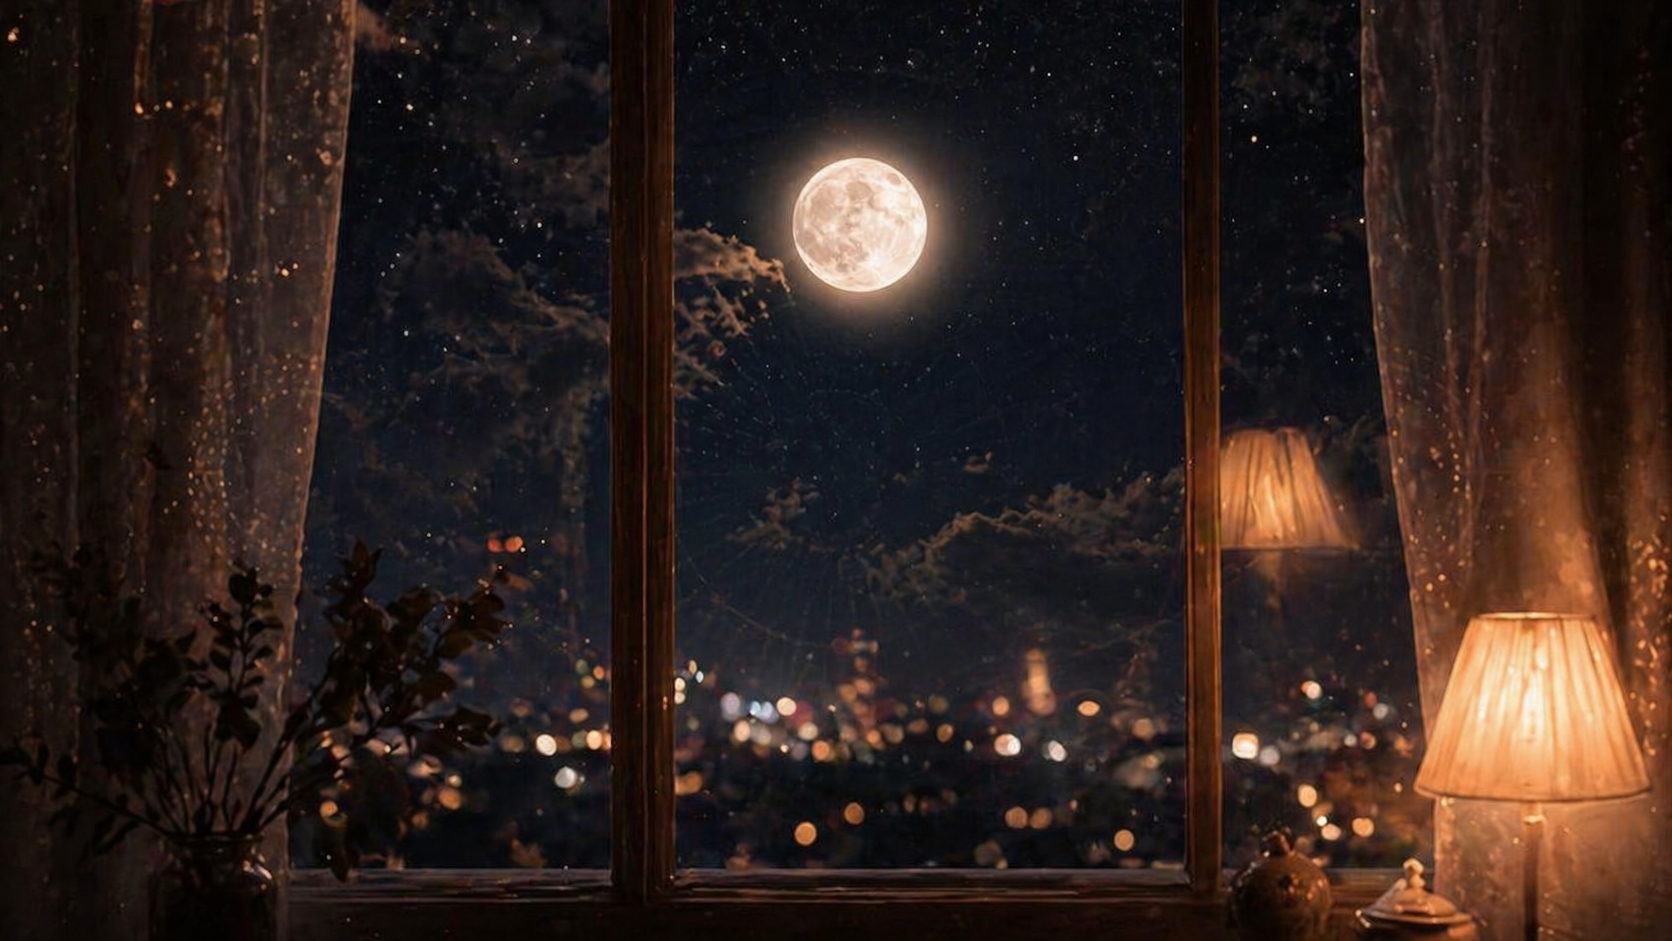
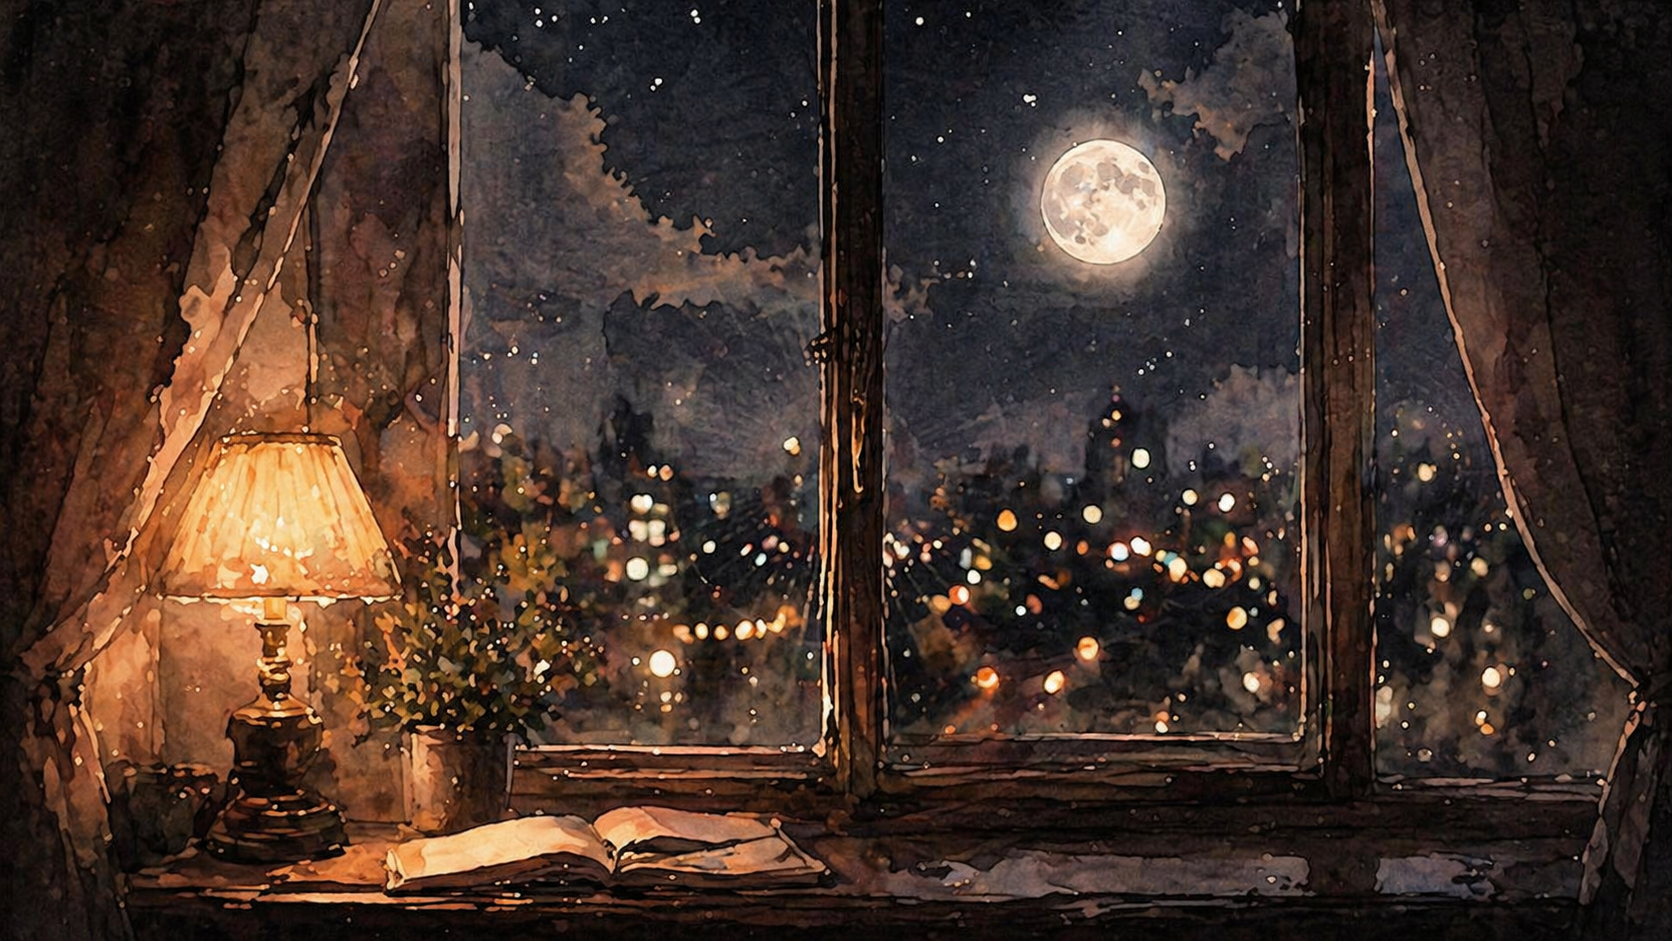
2nd post

diff --git a/posts/post-2.html b/posts/post-2.html
@@ -4,17 +4,14 @@
 <head>
     <meta charset="UTF-8" />
     <meta name="viewport" content="width=device-width, initial-scale=1.0" />
-    <title>Post Title — Moon Hours</title>
+    <title>I Think I Manifested My Biggest Fear — Moon Hours</title>
     <link rel="stylesheet" href="../style.css" />
 
-    <!-- Google tag (gtag.js) -->
-    <!-- Google tag (gtag.js) -->
     <script async src="https://www.googletagmanager.com/gtag/js?id=G-15LWD2YT5F"></script>
     <script>
         window.dataLayer = window.dataLayer || [];
         function gtag() { dataLayer.push(arguments); }
         gtag('js', new Date());
-
         gtag('config', 'G-15LWD2YT5F');
     </script>
 </head>
@@ -25,7 +22,6 @@
 
     <div class="wrap">
 
-        <!-- HEADER -->
         <header>
             <div class="blog-title">Moon Hours</div>
             <div class="blog-subtitle">words written after the world went quiet</div>
@@ -37,81 +33,112 @@
             </nav>
         </header>
 
-        <!-- POST LAYOUT -->
         <div class="post-layout">
 
-            <!-- MAIN COLUMN -->
             <div class="post-main">
 
-                <!-- optional hero image — delete if no image -->
-                <img class="post-hero" src="../assets/images/image4.jpeg" alt="post image" />
+                <img class="post-hero" src="../assets/images/image3.jpeg" alt="harmony" />
 
                 <div class="post-header">
-                    <div class="post-page-title">Things I Learned From Doing Nothing</div>
+                    <div class="post-page-title">I Think I Manifested My Biggest Fear</div>
                     <div class="post-meta">
-                        <span>march 18, 2026</span>
+                        <span>april 30, 2026</span>
                         <span class="dot"></span>
-                        <span>5 min read</span>
+                        <span>6 min read</span>
                         <span class="dot"></span>
-                        <span class="post-tag">introspection</span>
+                        <span class="post-tag">loneliness</span>
+                        <span class="dot"></span>
+                        <span class="post-tag">self</span>
                     </div>
                 </div>
 
                 <div class="post-divider"></div>
 
-                <!-- YOUR WRITING GOES HERE -->
                 <div class="post-content">
-                    <p> The title is "doin nothing"... but I am here doing all these things .. but why?
+
+                    <p>Did you know there is a theory about fear? Even though the classic Murphy's law sounds practical,
+                        people often reinterpret it as "the more you fear it, the more it happens." Sounds scary and
+                        funny at the same time, right?</p>
+
+                    <p>To me, it's more like manifesting the fear. I mean, that's how it works, isn't it? Your belief
+                        is what you manifest. Even in Islam, Allah is gonna be exactly who you believe him to be, give
+                        you what you believe he can grant. If you believe that there is something you want that you
+                        can't have, then you can't have it. He won't give you that, and vice versa.</p>
+
+                    <blockquote>It's scary sometimes how we are the ones who limit the blessings of our own
+                        lives.</blockquote>
+
+                    <p>Everyone has their own fear about <strong>life</strong>. And mine is "to be lonely". It came
+                        partly
+                        from life
+                        experiences and partly from how tired I am of feeling it. You know when loneliness becomes
+                        loud? When the room is full of people, yet not a single person actually cares, nor knows you
+                        well. All those people are there just because either they are family members or they get some
+                        kind of benefit from you.</p>
+
+                    <p>And the loneliness starts to scream when it knows no one is there for you because they
+                        <em>want</em> to be, choosing you regardless of who you are, not because of any benefit or
+                        condition.
                     </p>
 
-                    <p> Aren't the cat too cute? yeah right.. all i can think during my free time is cats -_-
+                    <p>My whole life has been a series of those events. I'm 24 now, and at this point, I know it's not
+                        that much of a life. (Any elder would say that 🤷♀️). But I already stopped expecting. There
+                        is a different kind of weight to <strong>hope</strong>. So loneliness is what became my
+                        constant.</p>
 
-                    </p>
+                    <p> The acceptance of that,<em> “I am enough to be in people's lives to meet their needs or
+                            expectations,
+                            but not enough to be in their lives as a constant. I'm not worth the risk to be chosen and
+                            have
+                            a
+                            place in the lives of the people I cherish.”</em></p>
+                    <img src="../assets/images/image4.jpeg" alt="a single glowing light in darkness" />
 
-                    <!-- inline image — use anywhere between paragraphs -->
-                    <img src="../assets/images/image5.jpeg" alt="describe the image" />
+                    <p>It's kind of hilarious in a sense, because that's the thing I have looked for all my life, and
+                        it's also something I feared. Instead, the question got printed in me, <em>"can't I be valued
+                            the same way I do?"</em></p>
 
-                    <p>Imagine you were sleeping ... woke up, just to see them looking at you like that... heheheh</p>
+                    <p>The good thing is, I know my existence isn't tied to what others think. Still, I am a family
+                        person. And now, when I can see myself alone in the picture of the future, it gives me a
+                        reality check.</p>
 
-                    <!-- blockquote — for a thought you want to highlight -->
-                    <blockquote> Cats are the best 😊</blockquote>
+                    <p>The nice thing about that image is that I chose myself. And the other reason why I see myself
+                        alone in
+                        that image is because nobody chose to be there with me, without any self-interest. Cause
+                        that's where
+                        I drew the boundary. I refuse to overgive in a place where I am getting zero effort back.
+                        Which, in a sense, is better for me. No fake people around me either.</p>
 
-                    <p>I am going to sleep... Good night.</p>
+                    <p>Does that make me hate anyone? Not actually. Hating takes too much energy to spend on someone
+                        who doesn't give a dime about me.</p>
+
+                    <blockquote>At least I have myself. And honestly? That's not nothing.</blockquote>
+
+                    <p><em>loving yourself isn't selfish, it's important. </em></p>
+
                 </div>
 
-                <!-- COMMENTS -->
+
                 <div class="comments-section">
                     <div class="comments-title">leave a note</div>
-                    <div class="comment-form">
-                        <input type="text" placeholder="your name" />
-                        <input type="email" placeholder="your email (not shown)" />
-                        <textarea placeholder="what did this make you think about..."></textarea>
-                        <button class="comment-submit">send it ✦</button>
-                    </div>
+                    <form class="comment-form" action="https://formspree.io/f/xnjwawkg" method="POST">
+                        <input type="text" name="name" placeholder="your name" />
+                        <input type="email" name="email" placeholder="your email (not shown)" />
+                        <textarea name="message" placeholder="what did this make you think about..."></textarea>
+                        <button type="submit" class="comment-submit">send it ✦</button>
+                    </form>
                 </div>
 
             </div>
 
-            <!-- SIDEBAR -->
             <div class="post-sidebar">
 
                 <div class="sidebar-box">
                     <div class="sidebar-title">more from the journal</div>
 
-                    <!-- copy this block for each suggested post -->
                     <a class="sidebar-post" href="post-1.html">
                         <div class="sidebar-post-title">On The Strange Comfort of 3am Silence</div>
-                        <div class="sidebar-post-date">march 18, 2026</div>
-                    </a>
-
-                    <a class="sidebar-post" href="post-3.html">
-                        <div class="sidebar-post-title">The Internet Feels Different at Night</div>
-                        <div class="sidebar-post-date">feb 28, 2026</div>
-                    </a>
-
-                    <a class="sidebar-post" href="post-4.html">
-                        <div class="sidebar-post-title">A Letter I Never Planned to Write</div>
-                        <div class="sidebar-post-date">feb 14, 2026</div>
+                        <div class="sidebar-post-date">april 22, 2026</div>
                     </a>
 
                 </div>
@@ -122,7 +149,6 @@
 
         </div>
 
-        <!-- FOOTER -->
         <footer>
             <div class="footer-title">Moon Hours</div>
             <div class="footer-text">

diff --git a/archive.html b/archive.html
@@ -50,7 +50,7 @@
                 <img src="assets/images/image1.jpeg" alt="On the Strange Comfort of 3am Silence" />
                 <div class="archive-overlay">
                     <div class="archive-title">On the Strange Comfort of 3am Silence</div>
-                    <div class="archive-date">April 19, 2026</div>
+                    <div class="archive-date">April 22, 2026</div>
                 </div>
             </a>
 
@@ -58,12 +58,25 @@
                 <img src="assets/images/image2.jpeg" alt="On the Strange Comfort of 3am Silence" />
                 <div class="archive-overlay">
                     <div class="archive-title">On the Strange Comfort of 3am Silence</div>
-                    <div class="archive-date">April 19, 2026</div>
+                    <div class="archive-date">April 22, 2026</div>
                 </div>
             </a>
 
+            <a class="archive-item" href="posts/post-2.html">
+                <img src="assets/images/image3.jpeg" alt="I Think I Manifested My Biggest Fear" />
+                <div class="archive-overlay">
+                    <div class="archive-title">I Think I Manifested My Biggest Fear</div>
+                    <div class="archive-date">April 30, 2026</div>
+                </div>
+            </a>
 
-
+            <a class="archive-item" href="posts/post-2.html">
+                <img src="assets/images/image4.jpeg" alt="a single glowing light in darkness" />
+                <div class="archive-overlay">
+                    <div class="archive-title">I Think I Manifested My Biggest Fear</div>
+                    <div class="archive-date">April 30, 2026</div>
+                </div>
+            </a>
 
         </div>
 

diff --git a/posts/post-1.html b/posts/post-1.html
@@ -48,7 +48,7 @@
                 <div class="post-header">
                     <div class="post-page-title">On The Strange Comfort of 3am Silence</div>
                     <div class="post-meta">
-                        <span>April 29, 2026</span>
+                        <span>April 22, 2026</span>
                         <span class="dot"></span>
                         <span>5 min read</span>
                         <span class="dot"></span>
@@ -134,19 +134,10 @@
                 <div class="sidebar-title">more from the journal</div>
 
                 <a class="sidebar-post" href="post-2.html">
-                    <div class="sidebar-post-title">Things I Learned From Doing Nothing</div>
-                    <div class="sidebar-post-date">march 10, 2026</div>
+                    <div class="sidebar-post-title">I Think I Manifested My Biggest Fear</div>
+                    <div class="sidebar-post-date">April 30, 2026</div>
                 </a>
 
-                <a class="sidebar-post" href="post-3.html">
-                    <div class="sidebar-post-title">The Internet Feels Different at Night</div>
-                    <div class="sidebar-post-date">feb 28, 2026</div>
-                </a>
-
-                <a class="sidebar-post" href="post-4.html">
-                    <div class="sidebar-post-title">A Letter I Never Planned to Write</div>
-                    <div class="sidebar-post-date">feb 14, 2026</div>
-                </a>
 
             </div>
 

diff --git a/essays.html b/essays.html
@@ -49,7 +49,7 @@
             <a class="post-card" href="posts/post-1.html">
                 <img class="post-thumb" src="assets/images/image1.jpeg" alt="post image" />
                 <div class="post-body">
-                    <div class="post-date">April 29, 2026</div>
+                    <div class="post-date">April 22, 2026</div>
                     <div class="post-title">On the Strange Comfort of 3am Silence</div>
                     <div class="post-excerpt">There's a version of the world that only exists after everyone else has
                         gone to sleep...</div>
@@ -57,7 +57,16 @@
                 </div>
             </a>
 
-
+            <a class="post-card" href="posts/post-2.html">
+                <img class="post-thumb" src="assets/images/image3.jpeg" alt="post image" />
+                <div class="post-body">
+                    <div class="post-date">April 30, 2026</div>
+                    <div class="post-title">I Think I Manifested My Biggest Fear</div>
+                    <div class="post-excerpt">Is fear our biggest enemy or it's us?</div>
+                    <span class="post-tag">loneliness</span>
+                    <span class="post-tag">self</span>
+                </div>
+            </a>
 
         </div>
 

diff --git a/index.html b/index.html
@@ -94,7 +94,7 @@
             <a class="post-card" href="posts/post-1.html">
                 <img class="post-thumb" src="assets/images/image1.jpeg" alt="post image" />
                 <div class="post-body">
-                    <div class="post-date">April 29, 2026</div>
+                    <div class="post-date">April 22, 2026</div>
                     <div class="post-title">On the Strange Comfort of 3am Silence</div>
                     <div class="post-excerpt">There's a version of the world that only exists after everyone else has
                         gone to sleep...</div>
@@ -102,7 +102,16 @@
                 </div>
             </a>
 
-
+            <a class="post-card" href="posts/post-2.html">
+                <img class="post-thumb" src="assets/images/image3.jpeg" alt="post image" />
+                <div class="post-body">
+                    <div class="post-date">April 30, 2026</div>
+                    <div class="post-title">I Think I Manifested My Biggest Fear</div>
+                    <div class="post-excerpt">Is fear our biggest enemy or it's us?</div>
+                    <span class="post-tag">loneliness</span>
+                    <span class="post-tag">self</span>
+                </div>
+            </a>
 
         </div>
 